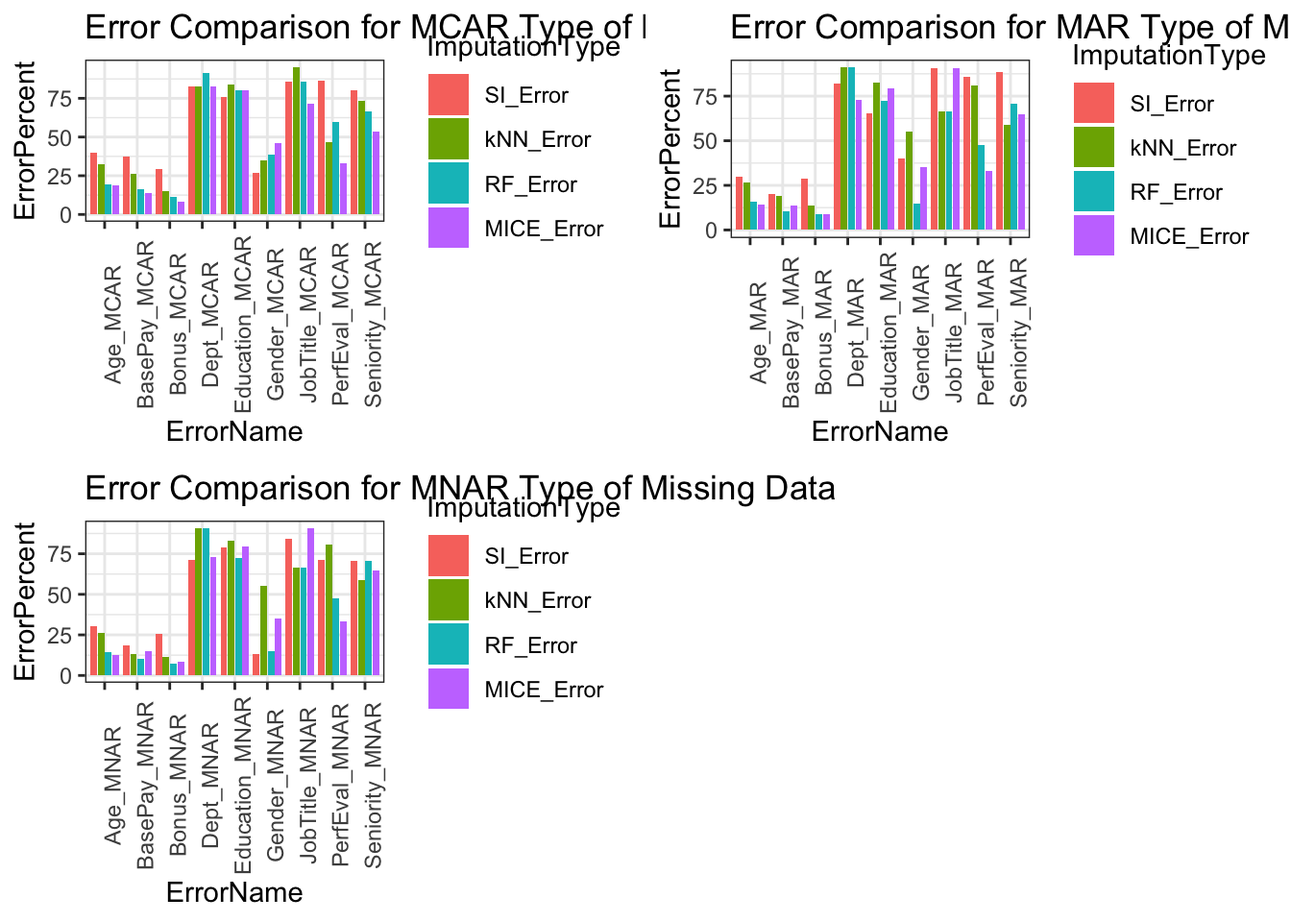
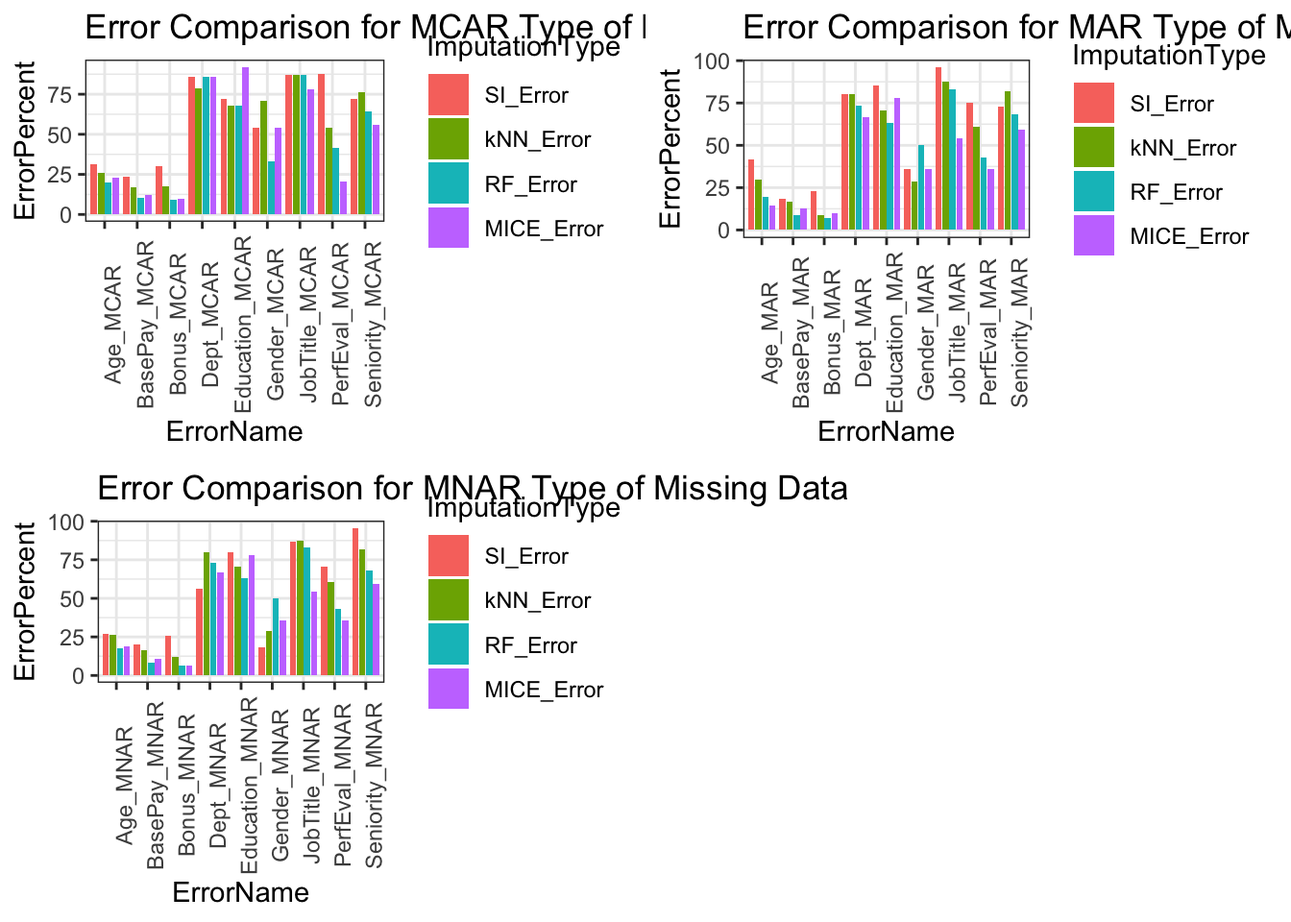
Adding final version

Changed region(s): [[0.0312, 0.0, 1.0, 1.0], [0.0312, 0.0938, 0.125, 0.2188], [0.1562, 0.0625, 0.2812, 0.1875]]

diff --git a/docs/methods.html b/docs/methods.html
@@ -23,7 +23,7 @@
 <meta name="author" content="Gabriel Rivera-Alvarez | Dillon Salas | Armon Darville" />
 
 
-<meta name="date" content="2022-11-27" />
+<meta name="date" content="2022-12-04" />
 
   <meta name="viewport" content="width=device-width, initial-scale=1" />
   <meta name="apple-mobile-web-app-capable" content="yes" />
@@ -104,7 +104,7 @@
 </ul></li>
 <li class="chapter" data-level="3.3" data-path="methods.html"><a href="methods.html#knn-imputation"><i class="fa fa-check"></i><b>3.3</b> kNN Imputation</a></li>
 <li class="chapter" data-level="3.4" data-path="methods.html"><a href="methods.html#random-forest-imputation"><i class="fa fa-check"></i><b>3.4</b> Random Forest Imputation</a></li>
-<li class="chapter" data-level="3.5" data-path="methods.html"><a href="methods.html#mice-imputatuion"><i class="fa fa-check"></i><b>3.5</b> Mice Imputatuion</a></li>
+<li class="chapter" data-level="3.5" data-path="methods.html"><a href="methods.html#mice-imputatuion"><i class="fa fa-check"></i><b>3.5</b> MICE Imputatuion</a></li>
 <li class="chapter" data-level="3.6" data-path="methods.html"><a href="methods.html#results"><i class="fa fa-check"></i><b>3.6</b> Results</a>
 <ul>
 <li class="chapter" data-level="3.6.1" data-path="methods.html"><a href="methods.html#error"><i class="fa fa-check"></i><b>3.6.1</b> Error</a></li>
@@ -188,14 +188,14 @@ This package used (missForest) is an iterative imputation method based on a rand
 This non parametric alternative is also used on mixed types of data with ability to account for high-dimensions and different types of variables simultaneously.</p>
 </div>
 <div id="mice-imputatuion" class="section level2 hasAnchor" number="3.5">
-<h2><span class="header-section-number">3.5</span> Mice Imputatuion<a href="methods.html#mice-imputatuion" class="anchor-section" aria-label="Anchor link to header"></a></h2>
+<h2><span class="header-section-number">3.5</span> MICE Imputatuion<a href="methods.html#mice-imputatuion" class="anchor-section" aria-label="Anchor link to header"></a></h2>
 <p>The last method used is MICE (Multivariate Imputation by Chained Equations). This method involves filling the missing values multiple times until a certain threshold is met.
 An important assumption of the MICE method is that it assumes that the missing data is Missing At Random (MAR).
 This means that the probability that a value is missing depends only on observed values and not on unobserved values.
-A drawback of this method is that when the data is not MAR could result in biased estimates.
+A drawback occurs when the data is not MAR, it could result in biased estimates.
 By default, linear regression is used to predict continuous missing values.
 Logistic regression is used for categorical missing values.
-While this method offers advantages over other methods, a primary disadvantage is that it does not have the same theoretical justification as other techniques.</p>
+While MICE offers flexibility and solutions to the missing data problem, a number of complexities such as clustered and longitudinal data still present problems for which MICE may not be suited for.</p>
 <ul>
 <li><p>Visualization after performing SI to the original dataset:
 <img src="bookdownproj_files/figure-html/unnamed-chunk-6-1.png" width="672" /></p></li>
@@ -207,8 +207,8 @@ While this method offers advantages over other methods, a primary disadvantage i
 <h2><span class="header-section-number">3.6</span> Results<a href="methods.html#results" class="anchor-section" aria-label="Anchor link to header"></a></h2>
 <div id="error" class="section level3 hasAnchor" number="3.6.1">
 <h3><span class="header-section-number">3.6.1</span> Error<a href="methods.html#error" class="anchor-section" aria-label="Anchor link to header"></a></h3>
-<div id="htmlwidget-fdb05738ba05549fa075" style="width:100%;height:auto;" class="datatables html-widget"></div>
-<script type="application/json" data-for="htmlwidget-fdb05738ba05549fa075">{"x":{"filter":"top","vertical":false,"filterHTML":"<tr>\n  <td><\/td>\n  <td data-type=\"number\" style=\"vertical-align: top;\">\n    <div class=\"form-group has-feedback\" style=\"margin-bottom: auto;\">\n      <input type=\"search\" placeholder=\"All\" class=\"form-control\" style=\"width: 100%;\"/>\n      <span class=\"glyphicon glyphicon-remove-circle form-control-feedback\"><\/span>\n    <\/div>\n    <div style=\"display: none;position: absolute;width: 200px;opacity: 1\">\n      <div data-min=\"13.3333333333333\" data-max=\"90.4761904761905\" data-scale=\"14\"><\/div>\n      <span style=\"float: left;\"><\/span>\n      <span style=\"float: right;\"><\/span>\n    <\/div>\n  <\/td>\n  <td data-type=\"number\" style=\"vertical-align: top;\">\n    <div class=\"form-group has-feedback\" style=\"margin-bottom: auto;\">\n      <input type=\"search\" placeholder=\"All\" class=\"form-control\" style=\"width: 100%;\"/>\n      <span class=\"glyphicon glyphicon-remove-circle form-control-feedback\"><\/span>\n    <\/div>\n    <div style=\"display: none;position: absolute;width: 200px;opacity: 1\">\n      <div data-min=\"11.2292487705343\" data-max=\"95.2380952380952\" data-scale=\"14\"><\/div>\n      <span style=\"float: left;\"><\/span>\n      <span style=\"float: right;\"><\/span>\n    <\/div>\n  <\/td>\n  <td data-type=\"number\" style=\"vertical-align: top;\">\n    <div class=\"form-group has-feedback\" style=\"margin-bottom: auto;\">\n      <input type=\"search\" placeholder=\"All\" class=\"form-control\" style=\"width: 100%;\"/>\n      <span class=\"glyphicon glyphicon-remove-circle form-control-feedback\"><\/span>\n    <\/div>\n    <div style=\"display: none;position: absolute;width: 200px;opacity: 1\">\n      <div data-min=\"7.00790138552941\" data-max=\"91.304347826087\" data-scale=\"15\"><\/div>\n      <span style=\"float: left;\"><\/span>\n      <span style=\"float: right;\"><\/span>\n    <\/div>\n  <\/td>\n  <td data-type=\"number\" style=\"vertical-align: top;\">\n    <div class=\"form-group has-feedback\" style=\"margin-bottom: auto;\">\n      <input type=\"search\" placeholder=\"All\" class=\"form-control\" style=\"width: 100%;\"/>\n      <span class=\"glyphicon glyphicon-remove-circle form-control-feedback\"><\/span>\n    <\/div>\n    <div style=\"display: none;position: absolute;width: 200px;opacity: 1\">\n      <div data-min=\"8.14630608100856\" data-max=\"90.4761904761905\" data-scale=\"14\"><\/div>\n      <span style=\"float: left;\"><\/span>\n      <span style=\"float: right;\"><\/span>\n    <\/div>\n  <\/td>\n<\/tr>","caption":"<caption>Errors by type<\/caption>","data":[["JobTitle_MCAR","Gender_MCAR","Age_MCAR","PerfEval_MCAR","Education_MCAR","Dept_MCAR","Seniority_MCAR","BasePay_MCAR","Bonus_MCAR","JobTitle_MAR","Gender_MAR","Age_MAR","PerfEval_MAR","Education_MAR","Dept_MAR","Seniority_MAR","BasePay_MAR","Bonus_MAR","JobTitle_MNAR","Gender_MNAR","Age_MNAR","PerfEval_MNAR","Education_MNAR","Dept_MNAR","Seniority_MNAR","BasePay_MNAR","Bonus_MNAR"],[85.7142857142857,26.9230769230769,40.0844819504559,86.6666666666667,76,82.6086956521739,80,37.2876894861932,29.1329465414651,90.4761904761905,40,29.931838302947,85.7142857142857,65.5172413793103,81.8181818181818,88.2352941176471,20.2995327219938,28.8997146110033,84,13.3333333333333,30.1806306281306,71.4285714285714,78.9473684210526,71.4285714285714,70.3703703703704,18.5745711301474,25.6910932026345],[95.2380952380952,34.6153846153846,32.4062390089743,46.6666666666667,84,82.6086956521739,73.3333333333333,25.9329910403063,15.020081755718,66.6666666666667,55,26.3802071402043,80.9523809523809,82.7586206896552,90.9090909090909,58.8235294117647,18.8979405691453,13.5318636403915,66.6666666666667,55,26.3083842561364,80.9523809523809,82.7586206896552,90.9090909090909,58.8235294117647,13.3715956565442,11.2292487705343],[85.7142857142857,38.4615384615385,19.0926674302556,60,80,91.304347826087,66.6666666666667,16.4801950970256,11.3951277111353,66.6666666666667,15,16.0228356728331,47.6190476190476,72.4137931034483,90.9090909090909,70.5882352941177,10.2871523950379,8.59573003809525,66.6666666666667,15,14.5831546814693,47.6190476190476,72.4137931034483,90.9090909090909,70.5882352941177,10.0581664904215,7.00790138552941],[71.4285714285714,46.1538461538462,19.0261245982673,33.3333333333333,80,82.6086956521739,53.3333333333333,13.9258365483303,8.14630608100857,90.4761904761905,35,14.2660070226252,33.3333333333333,79.3103448275862,72.7272727272727,64.7058823529412,13.6479823701391,9.05544565611272,90.4761904761905,35,12.5730704670292,33.3333333333333,79.3103448275862,72.7272727272727,64.7058823529412,14.7405962421734,8.53730832399505]],"container":"<table class=\"display\">\n  <thead>\n    <tr>\n      <th> <\/th>\n      <th>SI_Error<\/th>\n      <th>kNN_Error<\/th>\n      <th>RF_Error<\/th>\n      <th>MICE_Error<\/th>\n    <\/tr>\n  <\/thead>\n<\/table>","options":{"columnDefs":[{"className":"dt-right","targets":[1,2,3,4]},{"orderable":false,"targets":0}],"order":[],"autoWidth":false,"orderClasses":false,"orderCellsTop":true}},"evals":[],"jsHooks":[]}</script>
+<div id="htmlwidget-23f079b9da0da86995c8" style="width:100%;height:auto;" class="datatables html-widget"></div>
+<script type="application/json" data-for="htmlwidget-23f079b9da0da86995c8">{"x":{"filter":"top","vertical":false,"filterHTML":"<tr>\n  <td><\/td>\n  <td data-type=\"number\" style=\"vertical-align: top;\">\n    <div class=\"form-group has-feedback\" style=\"margin-bottom: auto;\">\n      <input type=\"search\" placeholder=\"All\" class=\"form-control\" style=\"width: 100%;\"/>\n      <span class=\"glyphicon glyphicon-remove-circle form-control-feedback\"><\/span>\n    <\/div>\n    <div style=\"display: none;position: absolute;width: 200px;opacity: 1\">\n      <div data-min=\"18.1818181818182\" data-max=\"95.8333333333333\" data-scale=\"14\"><\/div>\n      <span style=\"float: left;\"><\/span>\n      <span style=\"float: right;\"><\/span>\n    <\/div>\n  <\/td>\n  <td data-type=\"number\" style=\"vertical-align: top;\">\n    <div class=\"form-group has-feedback\" style=\"margin-bottom: auto;\">\n      <input type=\"search\" placeholder=\"All\" class=\"form-control\" style=\"width: 100%;\"/>\n      <span class=\"glyphicon glyphicon-remove-circle form-control-feedback\"><\/span>\n    <\/div>\n    <div style=\"display: none;position: absolute;width: 200px;opacity: 1\">\n      <div data-min=\"8.76106012446\" data-max=\"87.5\" data-scale=\"14\"><\/div>\n      <span style=\"float: left;\"><\/span>\n      <span style=\"float: right;\"><\/span>\n    <\/div>\n  <\/td>\n  <td data-type=\"number\" style=\"vertical-align: top;\">\n    <div class=\"form-group has-feedback\" style=\"margin-bottom: auto;\">\n      <input type=\"search\" placeholder=\"All\" class=\"form-control\" style=\"width: 100%;\"/>\n      <span class=\"glyphicon glyphicon-remove-circle form-control-feedback\"><\/span>\n    <\/div>\n    <div style=\"display: none;position: absolute;width: 200px;opacity: 1\">\n      <div data-min=\"6.45525623319277\" data-max=\"86.9565217391304\" data-scale=\"15\"><\/div>\n      <span style=\"float: left;\"><\/span>\n      <span style=\"float: right;\"><\/span>\n    <\/div>\n  <\/td>\n  <td data-type=\"number\" style=\"vertical-align: top;\">\n    <div class=\"form-group has-feedback\" style=\"margin-bottom: auto;\">\n      <input type=\"search\" placeholder=\"All\" class=\"form-control\" style=\"width: 100%;\"/>\n      <span class=\"glyphicon glyphicon-remove-circle form-control-feedback\"><\/span>\n    <\/div>\n    <div style=\"display: none;position: absolute;width: 200px;opacity: 1\">\n      <div data-min=\"6.49438122817766\" data-max=\"92\" data-scale=\"15\"><\/div>\n      <span style=\"float: left;\"><\/span>\n      <span style=\"float: right;\"><\/span>\n    <\/div>\n  <\/td>\n<\/tr>","caption":"<caption>Errors by type<\/caption>","data":[["JobTitle_MCAR","Gender_MCAR","Age_MCAR","PerfEval_MCAR","Education_MCAR","Dept_MCAR","Seniority_MCAR","BasePay_MCAR","Bonus_MCAR","JobTitle_MAR","Gender_MAR","Age_MAR","PerfEval_MAR","Education_MAR","Dept_MAR","Seniority_MAR","BasePay_MAR","Bonus_MAR","JobTitle_MNAR","Gender_MNAR","Age_MNAR","PerfEval_MNAR","Education_MNAR","Dept_MNAR","Seniority_MNAR","BasePay_MNAR","Bonus_MNAR"],[86.9565217391304,54.1666666666667,31.1777945976599,87.5,72,85.7142857142857,72,23.4933319891251,30.3706187792063,95.8333333333333,35.7142857142857,41.5173752043796,75,85.1851851851852,80,72.7272727272727,18.269946458058,23.0274341599736,86.6666666666667,18.1818181818182,26.9521192772008,70.5882352941177,80,56.25,95.6521739130435,20.411248563372,25.5925443246095],[86.9565217391304,70.8333333333333,26.0987070573155,54.1666666666667,68,78.5714285714286,76,16.6866582276856,17.7140332878334,87.5,28.5714285714286,29.927837839136,60.7142857142857,70.3703703703704,80,81.8181818181818,16.7737371192416,8.76106012446001,87.5,28.5714285714286,26.1186866245389,60.7142857142857,70.3703703703704,80,81.8181818181818,16.0856301937331,12.1663117817128],[86.9565217391304,33.3333333333333,19.9447468534396,41.6666666666667,68,85.7142857142857,64,10.5102666398243,9.213725646512,83.3333333333333,50,19.4745669640109,42.8571428571429,62.962962962963,73.3333333333333,68.1818181818182,8.68480852913116,7.22934546920127,83.3333333333333,50,17.5994298439384,42.8571428571429,62.962962962963,73.3333333333333,68.1818181818182,8.42177938743077,6.45525623319277],[78.2608695652174,54.1666666666667,23.2210314486628,20.8333333333333,92,85.7142857142857,56,12.3265588722392,10.0085219893341,54.1666666666667,35.7142857142857,14.3141360355182,35.7142857142857,77.7777777777778,66.6666666666667,59.0909090909091,12.8645686415052,9.95856179355404,54.1666666666667,35.7142857142857,18.7385709202702,35.7142857142857,77.7777777777778,66.6666666666667,59.0909090909091,11.0033871395261,6.49438122817766]],"container":"<table class=\"display\">\n  <thead>\n    <tr>\n      <th> <\/th>\n      <th>SI_Error<\/th>\n      <th>kNN_Error<\/th>\n      <th>RF_Error<\/th>\n      <th>MICE_Error<\/th>\n    <\/tr>\n  <\/thead>\n<\/table>","options":{"columnDefs":[{"className":"dt-right","targets":[1,2,3,4]},{"orderable":false,"targets":0}],"order":[],"autoWidth":false,"orderClasses":false,"orderCellsTop":true}},"evals":[],"jsHooks":[]}</script>
 </div>
 <div id="comparisons-and-interpretation" class="section level3 hasAnchor" number="3.6.2">
 <h3><span class="header-section-number">3.6.2</span> Comparisons and Interpretation<a href="methods.html#comparisons-and-interpretation" class="anchor-section" aria-label="Anchor link to header"></a></h3>

diff --git a/docs/index.html b/docs/index.html
@@ -23,7 +23,7 @@
 <meta name="author" content="Gabriel Rivera-Alvarez | Dillon Salas | Armon Darville" />
 
 
-<meta name="date" content="2022-11-13" />
+<meta name="date" content="2022-12-04" />
 
   <meta name="viewport" content="width=device-width, initial-scale=1" />
   <meta name="apple-mobile-web-app-capable" content="yes" />
@@ -92,18 +92,17 @@
 </ul></li>
 <li class="chapter" data-level="3.3" data-path="methods.html"><a href="methods.html#knn-imputation"><i class="fa fa-check"></i><b>3.3</b> kNN Imputation</a></li>
 <li class="chapter" data-level="3.4" data-path="methods.html"><a href="methods.html#random-forest-imputation"><i class="fa fa-check"></i><b>3.4</b> Random Forest Imputation</a></li>
-<li class="chapter" data-level="3.5" data-path="methods.html"><a href="methods.html#mice-imputatuion"><i class="fa fa-check"></i><b>3.5</b> Mice Imputatuion</a></li>
-</ul></li>
-<li class="chapter" data-level="4" data-path="results.html"><a href="results.html"><i class="fa fa-check"></i><b>4</b> Results</a>
+<li class="chapter" data-level="3.5" data-path="methods.html"><a href="methods.html#mice-imputatuion"><i class="fa fa-check"></i><b>3.5</b> MICE Imputatuion</a></li>
+<li class="chapter" data-level="3.6" data-path="methods.html"><a href="methods.html#results"><i class="fa fa-check"></i><b>3.6</b> Results</a>
 <ul>
-<li class="chapter" data-level="4.1" data-path="results.html"><a href="results.html#error"><i class="fa fa-check"></i><b>4.1</b> Error</a></li>
-<li class="chapter" data-level="4.2" data-path="results.html"><a href="results.html#comparisons"><i class="fa fa-check"></i><b>4.2</b> Comparisons</a></li>
-<li class="chapter" data-level="4.3" data-path="results.html"><a href="results.html#interpretation"><i class="fa fa-check"></i><b>4.3</b> Interpretation</a></li>
+<li class="chapter" data-level="3.6.1" data-path="methods.html"><a href="methods.html#error"><i class="fa fa-check"></i><b>3.6.1</b> Error</a></li>
+<li class="chapter" data-level="3.6.2" data-path="methods.html"><a href="methods.html#comparisons-and-interpretation"><i class="fa fa-check"></i><b>3.6.2</b> Comparisons and Interpretation</a></li>
 </ul></li>
-<li class="chapter" data-level="5" data-path="references.html"><a href="references.html"><i class="fa fa-check"></i><b>5</b> References</a></li>
-<li class="chapter" data-level="6" data-path="appendix.html"><a href="appendix.html"><i class="fa fa-check"></i><b>6</b> Appendix</a>
+</ul></li>
+<li class="chapter" data-level="4" data-path="references.html"><a href="references.html"><i class="fa fa-check"></i><b>4</b> References</a></li>
+<li class="chapter" data-level="5" data-path="appendix.html"><a href="appendix.html"><i class="fa fa-check"></i><b>5</b> Appendix</a>
 <ul>
-<li class="chapter" data-level="6.1" data-path="appendix.html"><a href="appendix.html#code"><i class="fa fa-check"></i><b>6.1</b> Code</a></li>
+<li class="chapter" data-level="5.1" data-path="appendix.html"><a href="appendix.html#code"><i class="fa fa-check"></i><b>5.1</b> Code</a></li>
 </ul></li>
 <li class="divider"></li>
 <li><a href="https://github.com/rstudio/bookdown" target="blank">Published with bookdown</a></li>
@@ -127,7 +126,7 @@
 <div id="header">
 <h1 class="title">Missing Data And Imputation</h1>
 <p class="author"><em>Gabriel Rivera-Alvarez | Dillon Salas | Armon Darville</em></p>
-<p class="date"><em>2022-11-13</em></p>
+<p class="date"><em>2022-12-04</em></p>
 </div>
 <div id="introduction" class="section level1 hasAnchor" number="1">
 <h1><span class="header-section-number">Chapter 1</span> Introduction<a href="index.html#introduction" class="anchor-section" aria-label="Anchor link to header"></a></h1>
@@ -156,7 +155,7 @@
 <p>Imputing a missing value means to infer those missing values using what is available in the dataset. The first method consists of doing nothing. The second method consists of replacing the missing values using mean or median. The third method consists of using the most frequent value or zero/constant value. The fourth method consists of using KNN. The fifth method consists of using Multivariate Imputation by Chained Equation (MICE). The sixth, and last method, consists of using Deep Learning. The article concludes by saying that there is no perfect way of imputing missing data because some methods will work better for certain data sets and worse in others so experimentation should be performed to see which method works best for the dataset. [3]</p>
 <p>KNN is an algorithm that is useful for matching a point with its closest k neighbors in a multi-dimensional space. It can be used for data that are continuous, discrete, ordinal and categorical which makes it particularly useful for dealing with all kinds of missing data. The assumption behind using KNN for missing values is that a point value can be approximated by the values of the points that are closest to it, based on other variables. [4]</p>
 <p>Many parameters are taken into consideration when using KNN. The ones mentioned in this article are the number of neighbors to look for, the aggregation method to use, normalizing the data, numeric attribute distances, categorical attribute distances, and binary attribute distances. Finally, the resource finishing giving an example using the titanic dataset. [4]</p>
-<p>Another research was conducted in 2016 to determine useful imputation strategies, including rough estimation using single imputation (mean, median, mode), regression imputation, mice, indicator method and imputation of longitudinal data. [5] However, for the purpose of our research, we will only focus on the rough estimation strategy, regression imputation and mice. Rough estimation is the most basic strategy which will replace null values with either the mean, median or mode depending on the dataset. The most important topic of this article pertaining to our research will be the combination of regression and mice. Regression is a very strong imputation method which predicts missing values by using a fitted model, however, Zhang stated that “this method increases correlation coefficients between map and lac. The variability of imputed data is underestimated. Alternatively, you can add some noises to regression by using mice function”. This is where we will explore the benefits of adding mice to regression imputation. [5]</p>
+<p>Another research was conducted in 2016 to determine useful imputation strategies, including rough estimation using single imputation (mean, median, mode), regression imputation, MICE, indicator method and imputation of longitudinal data. [5] However, for the purpose of our research, we will only focus on the rough estimation strategy, regression imputation and MICE. Rough estimation is the most basic strategy which will replace null values with either the mean, median or mode depending on the dataset. The most important topic of this article pertaining to our research will be the combination of regression and MICE. Regression is a very strong imputation method which predicts missing values by using a fitted model, however, Zhang stated that “this method increases correlation coefficients between map and lac. The variability of imputed data is underestimated. Alternatively, you can add some noises to regression by using MICE function”. This is where we will explore the benefits of adding MICE to regression imputation. [5]</p>
 
 </div>
 </div>

diff --git a/docs/data.html b/docs/data.html
@@ -23,7 +23,7 @@
 <meta name="author" content="Gabriel Rivera-Alvarez | Dillon Salas | Armon Darville" />
 
 
-<meta name="date" content="2022-11-20" />
+<meta name="date" content="2022-12-04" />
 
   <meta name="viewport" content="width=device-width, initial-scale=1" />
   <meta name="apple-mobile-web-app-capable" content="yes" />
@@ -92,12 +92,11 @@
 </ul></li>
 <li class="chapter" data-level="3.3" data-path="methods.html"><a href="methods.html#knn-imputation"><i class="fa fa-check"></i><b>3.3</b> kNN Imputation</a></li>
 <li class="chapter" data-level="3.4" data-path="methods.html"><a href="methods.html#random-forest-imputation"><i class="fa fa-check"></i><b>3.4</b> Random Forest Imputation</a></li>
-<li class="chapter" data-level="3.5" data-path="methods.html"><a href="methods.html#mice-imputatuion"><i class="fa fa-check"></i><b>3.5</b> Mice Imputatuion</a></li>
+<li class="chapter" data-level="3.5" data-path="methods.html"><a href="methods.html#mice-imputatuion"><i class="fa fa-check"></i><b>3.5</b> MICE Imputatuion</a></li>
 <li class="chapter" data-level="3.6" data-path="methods.html"><a href="methods.html#results"><i class="fa fa-check"></i><b>3.6</b> Results</a>
 <ul>
 <li class="chapter" data-level="3.6.1" data-path="methods.html"><a href="methods.html#error"><i class="fa fa-check"></i><b>3.6.1</b> Error</a></li>
-<li class="chapter" data-level="3.6.2" data-path="methods.html"><a href="methods.html#comparisons"><i class="fa fa-check"></i><b>3.6.2</b> Comparisons</a></li>
-<li class="chapter" data-level="3.6.3" data-path="methods.html"><a href="methods.html#interpretation"><i class="fa fa-check"></i><b>3.6.3</b> Interpretation</a></li>
+<li class="chapter" data-level="3.6.2" data-path="methods.html"><a href="methods.html#comparisons-and-interpretation"><i class="fa fa-check"></i><b>3.6.2</b> Comparisons and Interpretation</a></li>
 </ul></li>
 </ul></li>
 <li class="chapter" data-level="4" data-path="references.html"><a href="references.html"><i class="fa fa-check"></i><b>4</b> References</a></li>

diff --git a/docs/references.html b/docs/references.html
@@ -23,7 +23,7 @@
 <meta name="author" content="Gabriel Rivera-Alvarez | Dillon Salas | Armon Darville" />
 
 
-<meta name="date" content="2022-11-20" />
+<meta name="date" content="2022-12-04" />
 
   <meta name="viewport" content="width=device-width, initial-scale=1" />
   <meta name="apple-mobile-web-app-capable" content="yes" />
@@ -92,12 +92,11 @@
 </ul></li>
 <li class="chapter" data-level="3.3" data-path="methods.html"><a href="methods.html#knn-imputation"><i class="fa fa-check"></i><b>3.3</b> kNN Imputation</a></li>
 <li class="chapter" data-level="3.4" data-path="methods.html"><a href="methods.html#random-forest-imputation"><i class="fa fa-check"></i><b>3.4</b> Random Forest Imputation</a></li>
-<li class="chapter" data-level="3.5" data-path="methods.html"><a href="methods.html#mice-imputatuion"><i class="fa fa-check"></i><b>3.5</b> Mice Imputatuion</a></li>
+<li class="chapter" data-level="3.5" data-path="methods.html"><a href="methods.html#mice-imputatuion"><i class="fa fa-check"></i><b>3.5</b> MICE Imputatuion</a></li>
 <li class="chapter" data-level="3.6" data-path="methods.html"><a href="methods.html#results"><i class="fa fa-check"></i><b>3.6</b> Results</a>
 <ul>
 <li class="chapter" data-level="3.6.1" data-path="methods.html"><a href="methods.html#error"><i class="fa fa-check"></i><b>3.6.1</b> Error</a></li>
-<li class="chapter" data-level="3.6.2" data-path="methods.html"><a href="methods.html#comparisons"><i class="fa fa-check"></i><b>3.6.2</b> Comparisons</a></li>
-<li class="chapter" data-level="3.6.3" data-path="methods.html"><a href="methods.html#interpretation"><i class="fa fa-check"></i><b>3.6.3</b> Interpretation</a></li>
+<li class="chapter" data-level="3.6.2" data-path="methods.html"><a href="methods.html#comparisons-and-interpretation"><i class="fa fa-check"></i><b>3.6.2</b> Comparisons and Interpretation</a></li>
 </ul></li>
 </ul></li>
 <li class="chapter" data-level="4" data-path="references.html"><a href="references.html"><i class="fa fa-check"></i><b>4</b> References</a></li>

diff --git a/docs/appendix.html b/docs/appendix.html
@@ -23,7 +23,7 @@
 <meta name="author" content="Gabriel Rivera-Alvarez | Dillon Salas | Armon Darville" />
 
 
-<meta name="date" content="2022-11-27" />
+<meta name="date" content="2022-12-04" />
 
   <meta name="viewport" content="width=device-width, initial-scale=1" />
   <meta name="apple-mobile-web-app-capable" content="yes" />
@@ -156,7 +156,7 @@ code span.wa { color: #60a0b0; font-weight: bold; font-style: italic; } /* Warni
 </ul></li>
 <li class="chapter" data-level="3.3" data-path="methods.html"><a href="methods.html#knn-imputation"><i class="fa fa-check"></i><b>3.3</b> kNN Imputation</a></li>
 <li class="chapter" data-level="3.4" data-path="methods.html"><a href="methods.html#random-forest-imputation"><i class="fa fa-check"></i><b>3.4</b> Random Forest Imputation</a></li>
-<li class="chapter" data-level="3.5" data-path="methods.html"><a href="methods.html#mice-imputatuion"><i class="fa fa-check"></i><b>3.5</b> Mice Imputatuion</a></li>
+<li class="chapter" data-level="3.5" data-path="methods.html"><a href="methods.html#mice-imputatuion"><i class="fa fa-check"></i><b>3.5</b> MICE Imputatuion</a></li>
 <li class="chapter" data-level="3.6" data-path="methods.html"><a href="methods.html#results"><i class="fa fa-check"></i><b>3.6</b> Results</a>
 <ul>
 <li class="chapter" data-level="3.6.1" data-path="methods.html"><a href="methods.html#error"><i class="fa fa-check"></i><b>3.6.1</b> Error</a></li>

diff --git a/docs/404.html b/docs/404.html
@@ -23,7 +23,7 @@
 <meta name="author" content="Gabriel Rivera-Alvarez | Dillon Salas | Armon Darville" />
 
 
-<meta name="date" content="2022-11-27" />
+<meta name="date" content="2022-12-04" />
 
   <meta name="viewport" content="width=device-width, initial-scale=1" />
   <meta name="apple-mobile-web-app-capable" content="yes" />
@@ -104,7 +104,7 @@
 </ul></li>
 <li class="chapter" data-level="3.3" data-path="methods.html"><a href="methods.html#knn-imputation"><i class="fa fa-check"></i><b>3.3</b> kNN Imputation</a></li>
 <li class="chapter" data-level="3.4" data-path="methods.html"><a href="methods.html#random-forest-imputation"><i class="fa fa-check"></i><b>3.4</b> Random Forest Imputation</a></li>
-<li class="chapter" data-level="3.5" data-path="methods.html"><a href="methods.html#mice-imputatuion"><i class="fa fa-check"></i><b>3.5</b> Mice Imputatuion</a></li>
+<li class="chapter" data-level="3.5" data-path="methods.html"><a href="methods.html#mice-imputatuion"><i class="fa fa-check"></i><b>3.5</b> MICE Imputatuion</a></li>
 <li class="chapter" data-level="3.6" data-path="methods.html"><a href="methods.html#results"><i class="fa fa-check"></i><b>3.6</b> Results</a>
 <ul>
 <li class="chapter" data-level="3.6.1" data-path="methods.html"><a href="methods.html#error"><i class="fa fa-check"></i><b>3.6.1</b> Error</a></li>
